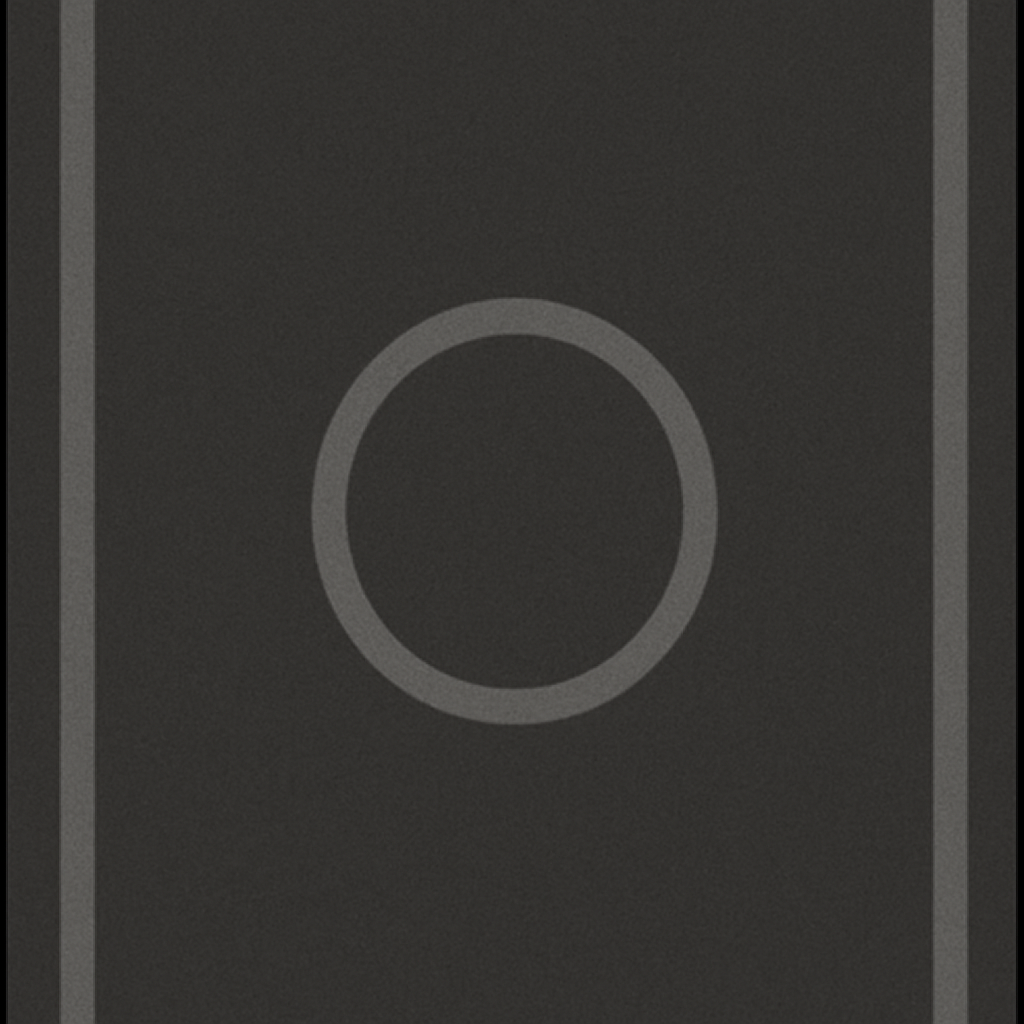
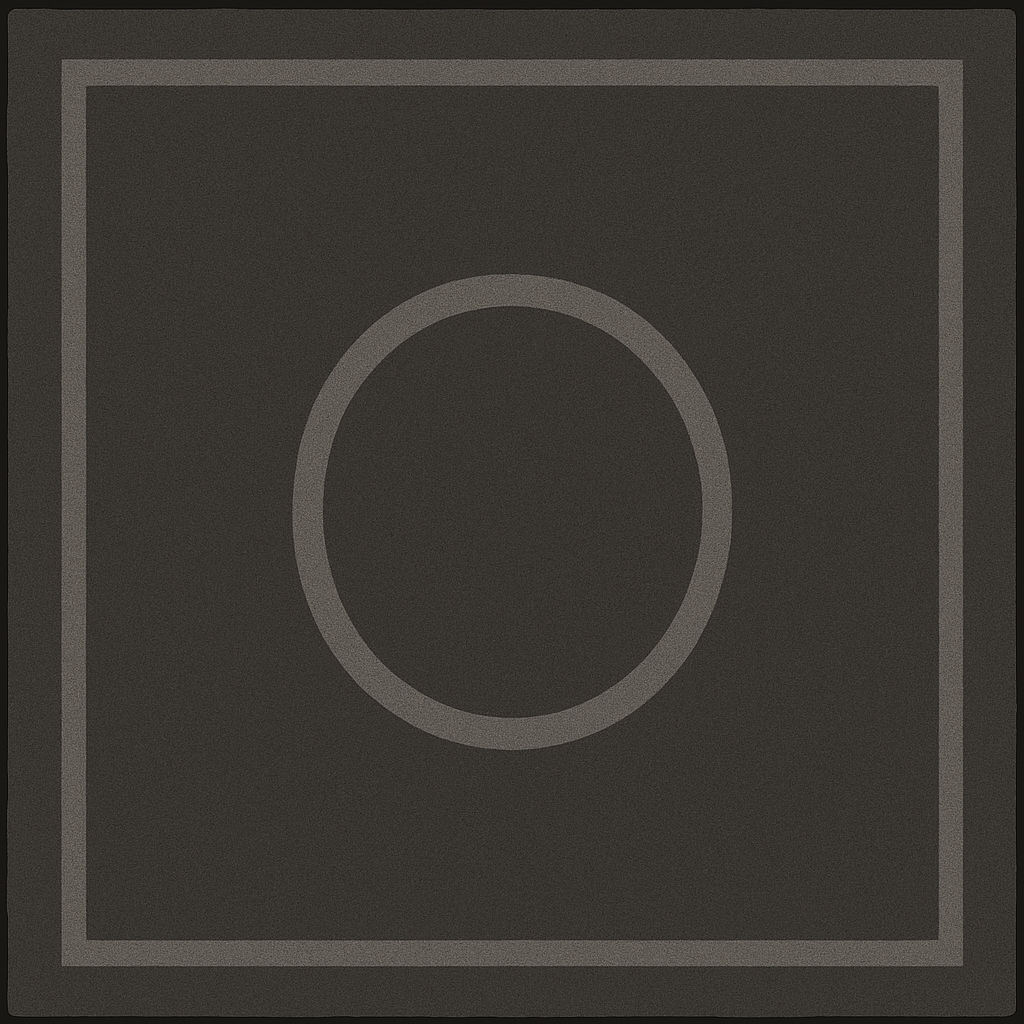
card background sprite changed, hover animation improved

Changed region(s): [[0.0, 0.0, 1.0, 1.0], [0.2812, 0.25, 0.7188, 0.75], [0.0, 0.4375, 0.0312, 0.9062]]

diff --git a/Assets/_project/_scripts/CardHolder.cs b/Assets/_project/_scripts/CardHolder.cs
@@ -20,6 +20,7 @@ public class CardHolder : MonoBehaviour
     public float tweenDuration = 0.15f;
     private Vector3 originalScale;
     private Tween currentTween;
+    private bool isEnlarged;
     #endregion
 
     #region Iinitialization
@@ -35,20 +36,36 @@ public class CardHolder : MonoBehaviour
     }
     #endregion
 
-    #region Main Functionality
-    private void Update()
+    #region Unity events
+    private void OnMouseEnter()
     {
-        if (Input.GetKeyUp(KeyCode.Space))
-        {
-            FlipCardWithSwap(() => SwapSprite());
-        }
+        if (isFaceUp) return;
+
+        ToggleCardAnimation();
     }
-    public void FlipCardWithSwap(Action onHalfWay)
+
+    private void OnMouseExit()
+    {
+        if (isFaceUp) return;
+
+        ToggleCardAnimation();
+    }
+
+    private void OnMouseDown()
+    {
+        if (isFaceUp) return;
+
+        FlipCardWithSwap(true, () => SwapSprite());
+    }
+    #endregion
+
+    #region Main Functionality
+    public void FlipCardWithSwap(bool faceUp, Action onHalfWay = null)
     {
         if (flipSequence != null && flipSequence.IsActive() && flipSequence.IsPlaying())
             return;
 
-        float targetY = isFaceUp ? 180 : 0;
+        float targetY = faceUp ? 180 : 0;
         flipSequence = DOTween.Sequence();
 
         flipSequence.Append(transform.DORotate(new Vector3(0, 90, 0), flipSpeed / 2))
@@ -63,21 +80,21 @@ public class CardHolder : MonoBehaviour
         spriteRenderer.sprite = isFaceUp ? cardImage : cardBackground;
     }
 
-    private void OnMouseEnter()
+    private void ToggleCardAnimation()
     {
         currentTween?.Kill();
 
-        currentTween = transform.DOScale(originalScale * hoverScale, tweenDuration)
+        if (!isEnlarged)
+        {
+            currentTween = transform.DOScale(originalScale * hoverScale, tweenDuration)
                                 .SetEase(Ease.OutQuad);
-    }
-
-    private void OnMouseExit()
-    {
-        currentTween?.Kill();
-
-        currentTween = transform.DOScale(originalScale, tweenDuration)
+        }
+        else
+        {
+            currentTween = transform.DOScale(originalScale, tweenDuration)
                                 .SetEase(Ease.OutQuad);
+        }
+        isEnlarged = !isEnlarged;
     }
-
     #endregion
 }
